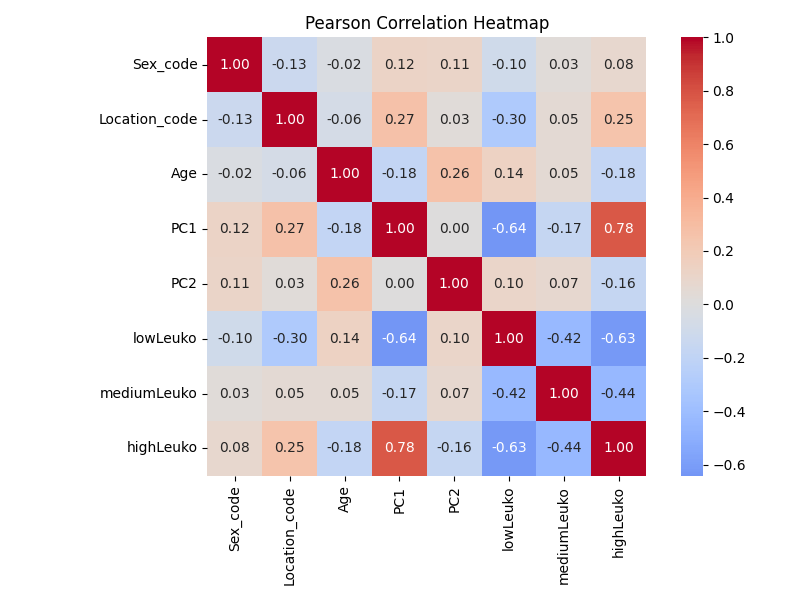
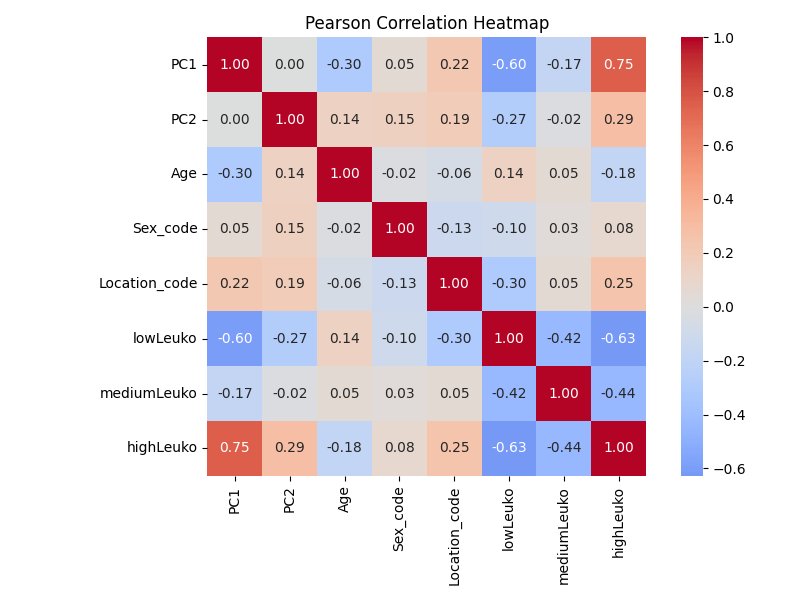
Added treshhold cutoffs

diff --git a/logic/pca.py b/logic/pca.py
@@ -5,41 +5,20 @@ import seaborn as sns
 from sklearn.decomposition import PCA
 from sklearn.preprocessing import StandardScaler
 
+from .params import (ROOT_DIR,
+                     TRESHHOLD)
 
-from .params import ROOT_DIR
 
+def filter_low_expression_genes(counts, min_fraction=0.5):
+    """
+    Keep genes expressed >= cutoff in at least min_fraction of samples.
+    """
+    expressed = (counts >= TRESHHOLD).sum(axis=1)
+    min_samples = int(min_fraction * counts.shape[1])
+    return counts.loc[expressed >= min_samples]
 
-def plot_correlation_heatmap(data, type):
-        # Plot and save Pearson correlation heatmap
-    plt.figure(figsize=(8, 6))
-    sns.heatmap(
-        data,
-        annot=True,
-        fmt=".2f",
-        cmap="coolwarm",
-        center=0,
-        square=True
-    )
-    plt.title(f"{type} Correlation Heatmap")
-    plt.tight_layout()
-    plt.savefig(ROOT_DIR / "images" / "correlation" / f"{type}_heatmap.png")
-    plt.close()
 
 def plot_scatter(samples, pc1, pc2, data_col, palette=None):
-    """   
-    samples : pd.DataFrame
-        DataFrame containing 'PC1', 'PC2' and the hue_col.
-    pca : sklearn PCA object
-        Fitted PCA to extract explained variance for axis labels.
-    hue_col : str
-        Column name to color the points by.
-    outdir : Path
-        Directory to save the plot.
-    title : str, optional
-        Plot title. Defaults to "PCA by {hue_col}".
-    palette : str or dict, optional
-        Color palette for seaborn.
-    """
     plt.figure(figsize=(8, 6))
     sns.scatterplot(
         data=samples,
@@ -49,8 +28,6 @@ def plot_scatter(samples, pc1, pc2, data_col, palette=None):
         palette=palette,
         s=40
     )
-
-    # Add dotted lines at x=0 and y=0
     plt.axhline(0, color="gray", linestyle="--", linewidth=1)
     plt.axvline(0, color="gray", linestyle="--", linewidth=1)
 
@@ -68,68 +45,117 @@ def plot_boxplot(samples):
     plt.subplot(1, 2, 1)
     sns.boxplot(x="AgeGroup", y="PC1", data=samples)
     plt.title("PC1 by AgeGroup")
+
     plt.subplot(1, 2, 2)
     sns.boxplot(x="AgeGroup", y="PC2", data=samples)
     plt.title("PC2 by AgeGroup")
+
     plt.tight_layout()
     plt.savefig(ROOT_DIR / "images" / "pca" / "boxplots_by_AgeGroup.png")
     plt.close()
 
 
-if __name__ == '__main__':
+def plot_correlation_heatmap(data, label):
+    plt.figure(figsize=(8, 6))
+    sns.heatmap(
+        data,
+        annot=True,
+        fmt=".2f",
+        cmap="coolwarm",
+        center=0,
+        square=True
+    )
+    plt.title(f"{label} Correlation Heatmap")
+    plt.tight_layout()
+    plt.savefig(ROOT_DIR / "images" / "correlation" / f"{label}_heatmap.png")
+    plt.close()
 
-    # Load data
-    samples = pd.read_csv(ROOT_DIR / "data/samples.csv",
-                          sep=";",
-                          decimal=",",
-                          index_col=0)
-    numeric_cols = ["Age", "lowLeuko", "mediumLeuko", "highLeuko"]
-    for col in numeric_cols:
+
+if __name__ == "__main__":
+
+    # Load metadata
+    samples = pd.read_csv(
+        ROOT_DIR / "data/samples.csv",
+        sep=";",
+        decimal=",",
+        index_col=0
+    )
+
+    for col in ["Age", "lowLeuko", "mediumLeuko", "highLeuko"]:
         samples[col] = pd.to_numeric(samples[col], errors="coerce")
 
-    counts = pd.read_csv(ROOT_DIR / "data/counts_normalized.csv",
-                         sep=";",
-                         decimal=",",
-                         index_col=0)
+    # Load expression matrix
+    counts = pd.read_csv(
+        ROOT_DIR / "data/counts_normalized.csv",
+        sep=";",
+        decimal=",",
+        index_col=0
+    )
 
-    # Match and order samples
+    # Match samples
     samples = samples[samples["id"].isin(counts.columns)]
-    X = counts[samples["id"]].T
+    counts = counts[samples["id"]]
 
-    # Center data and run PCA
+    # -------------------------------
+    # Low-expression filtering
+    # -------------------------------
+
+    counts_filt = filter_low_expression_genes(
+        counts,
+        min_fraction=0.5
+    )
+
+    print(f"Genes before filtering: {counts.shape[0]}")
+    print(f"Genes after filtering:  {counts_filt.shape[0]}")
+
+    # -------------------------------
+    # PCA
+    # -------------------------------
+
+    X = counts_filt.T
     X_centered = StandardScaler(with_std=False).fit_transform(X)
+
     pca = PCA(n_components=2)
     pcs = pca.fit_transform(X_centered)
 
-    pc1 = pca.explained_variance_ratio_[0]
-    pc2 = pca.explained_variance_ratio_[1]
     samples["PC1"] = pcs[:, 0]
     samples["PC2"] = pcs[:, 1]
 
-    # Create a new column with age groups
+    pc1_var, pc2_var = pca.explained_variance_ratio_
+
+    # Age groups
     bins = [15, 25, 35, 45, 55, 65, 75, 100]
     labels = ["15-25", "26-35", "36-45", "46-55", "56-65", "66-75", "75+"]
-    samples["AgeGroup"] = pd.cut(samples["Age"],
-                                 bins=bins,
-                                 labels=labels,
-                                 right=True)
+    samples["AgeGroup"] = pd.cut(samples["Age"], bins=bins, labels=labels)
 
-    plot_scatter(samples, pc1, pc2, data_col="Location")
-    plot_scatter(samples, pc1, pc2, data_col="Sex")
-    plot_scatter(samples, pc1, pc2, data_col="AgeGroup", palette="coolwarm")
-    plot_scatter(samples, pc1, pc2, data_col="lowLeuko")
-    plot_scatter(samples, pc1, pc2, data_col="mediumLeuko")
-    plot_scatter(samples, pc1, pc2, data_col="highLeuko")
+    # -------------------------------
+    # PCA plots
+    # -------------------------------
+
+    plot_scatter(samples, pc1_var, pc2_var, "Location")
+    plot_scatter(samples, pc1_var, pc2_var, "Sex")
+    plot_scatter(samples, pc1_var, pc2_var, "AgeGroup", palette="coolwarm")
+    plot_scatter(samples, pc1_var, pc2_var, "lowLeuko")
+    plot_scatter(samples, pc1_var, pc2_var, "mediumLeuko")
+    plot_scatter(samples, pc1_var, pc2_var, "highLeuko")
+
     plot_boxplot(samples)
+
+    # -------------------------------
+    # Correlation analysis
+    # -------------------------------
 
     samples["Sex_code"] = samples["Sex"].astype("category").cat.codes
     samples["Location_code"] = samples["Location"].astype("category").cat.codes
-    cols = ["Sex_code", "Location_code", "Age",
-            "PC1", "PC2", "lowLeuko", "mediumLeuko", "highLeuko"]
 
-    # Pearson correlation (linear) / Spearman correlation (rank-based)
-    pearson_corr = samples[cols].corr(method="pearson")
-    spearman_corr = samples[cols].corr(method="spearman")
+    cols = [
+        "PC1", "PC2", "Age",
+        "Sex_code", "Location_code",
+        "lowLeuko", "mediumLeuko", "highLeuko"
+    ]
 
-    plot_correlation_heatmap(pearson_corr, "Pearson")
-    plot_correlation_heatmap(pearson_corr, "Spearman")
+    pearson = samples[cols].corr(method="pearson")
+    spearman = samples[cols].corr(method="spearman")
+
+    plot_correlation_heatmap(pearson, "Pearson")
+    plot_correlation_heatmap(spearman, "Spearman")

diff --git a/logic/treshhold.py b/logic/treshhold.py
@@ -1,0 +1,40 @@
+import numpy as np
+import pandas as pd
+import matplotlib.pyplot as plt
+
+from logic.params import ROOT_DIR
+
+
+if __name__ == '__main__':
+    counts = pd.read_csv(ROOT_DIR / "data/counts_normalized.csv",
+                            sep=";",
+                            decimal=",",
+                            index_col=0)
+
+    cutoffs = np.logspace(0.4, 1, 10)
+
+    # Count genes above cutoff per sample
+    gene_counts = {
+        cutoff: (counts > cutoff).sum(axis=0)
+        for cutoff in cutoffs
+    }
+
+    gene_counts_df = pd.DataFrame(gene_counts)
+
+    # Plot
+    plt.figure(figsize=(8, 6))
+    for sample in gene_counts_df.index:
+        plt.plot(
+            cutoffs,
+            gene_counts_df.loc[sample],
+            color="gray",
+            alpha=0.3
+        )
+
+    plt.xscale("log")
+    plt.xlabel("Expression cutoff")
+    plt.ylabel("Number of genes expressed")
+    plt.title("Genes above expression cutoff per sample")
+    plt.tight_layout()
+    plt.savefig(ROOT_DIR / "images" / "treshhold" / "expression_cutoff_diagnostic.png")
+    plt.close()

diff --git a/logic/params.py b/logic/params.py
@@ -2,3 +2,4 @@ from pathlib import Path
 
 
 ROOT_DIR = Path(__file__).resolve().parent.parent
+TRESHHOLD = 5.5
